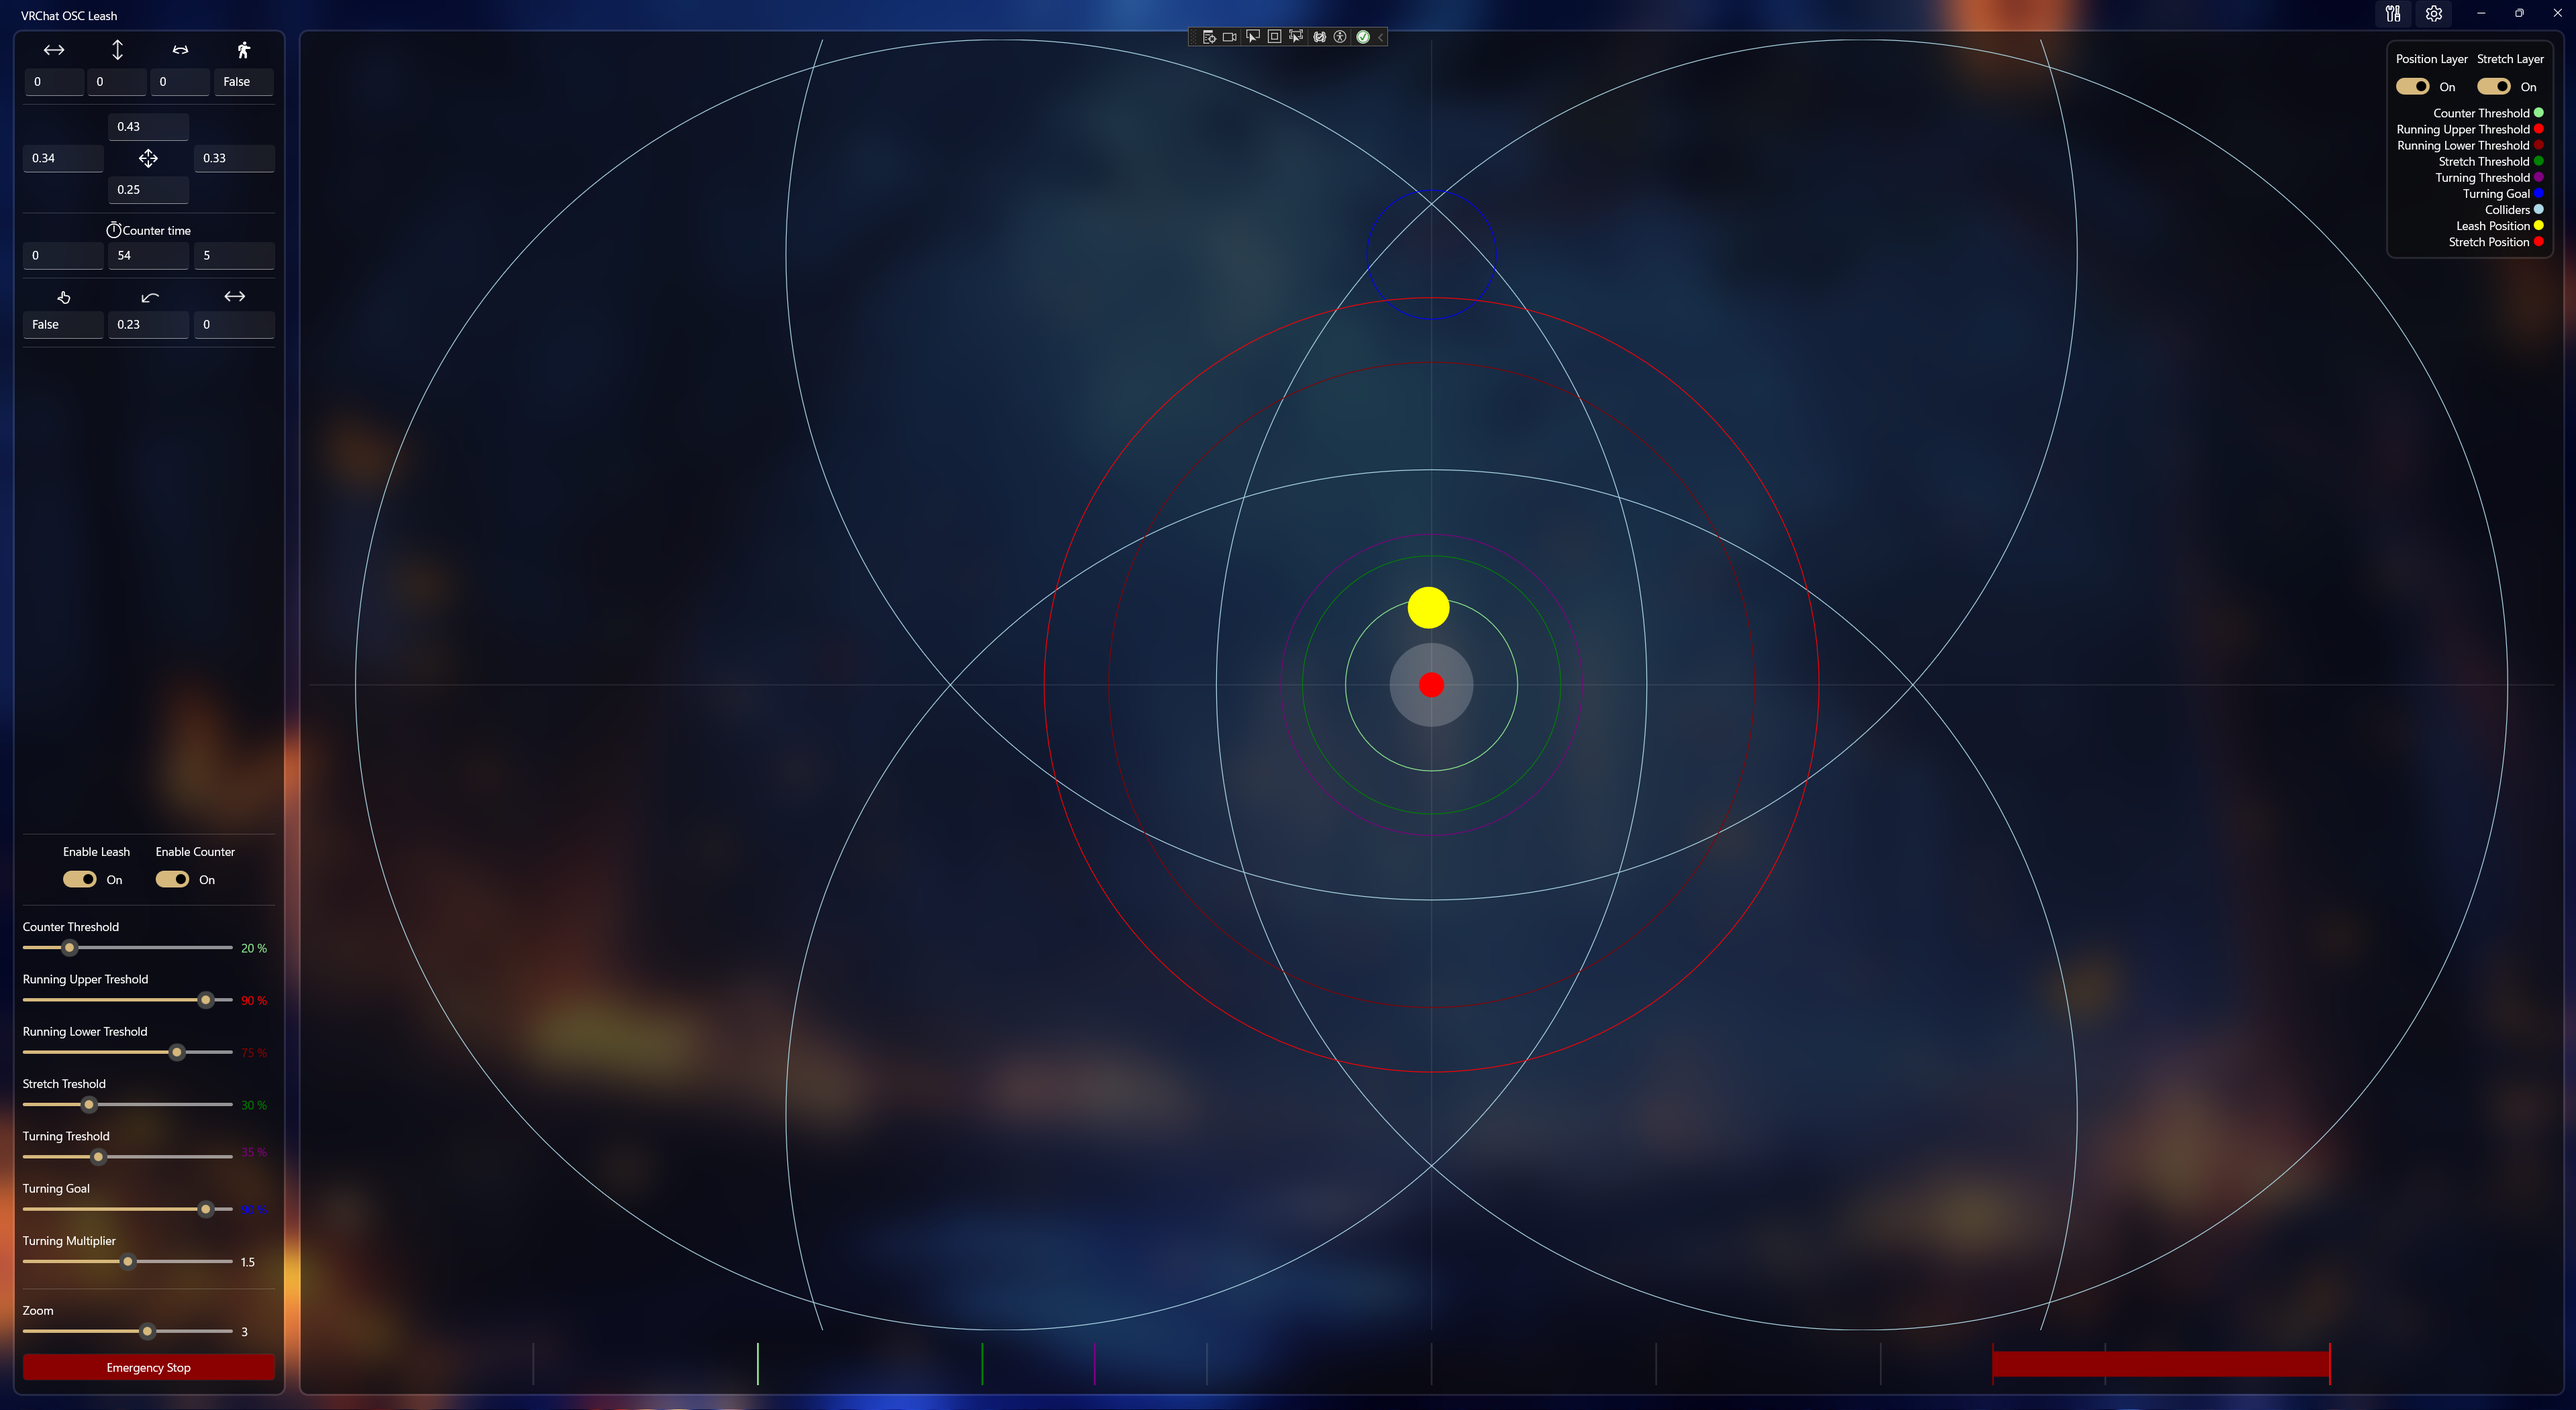
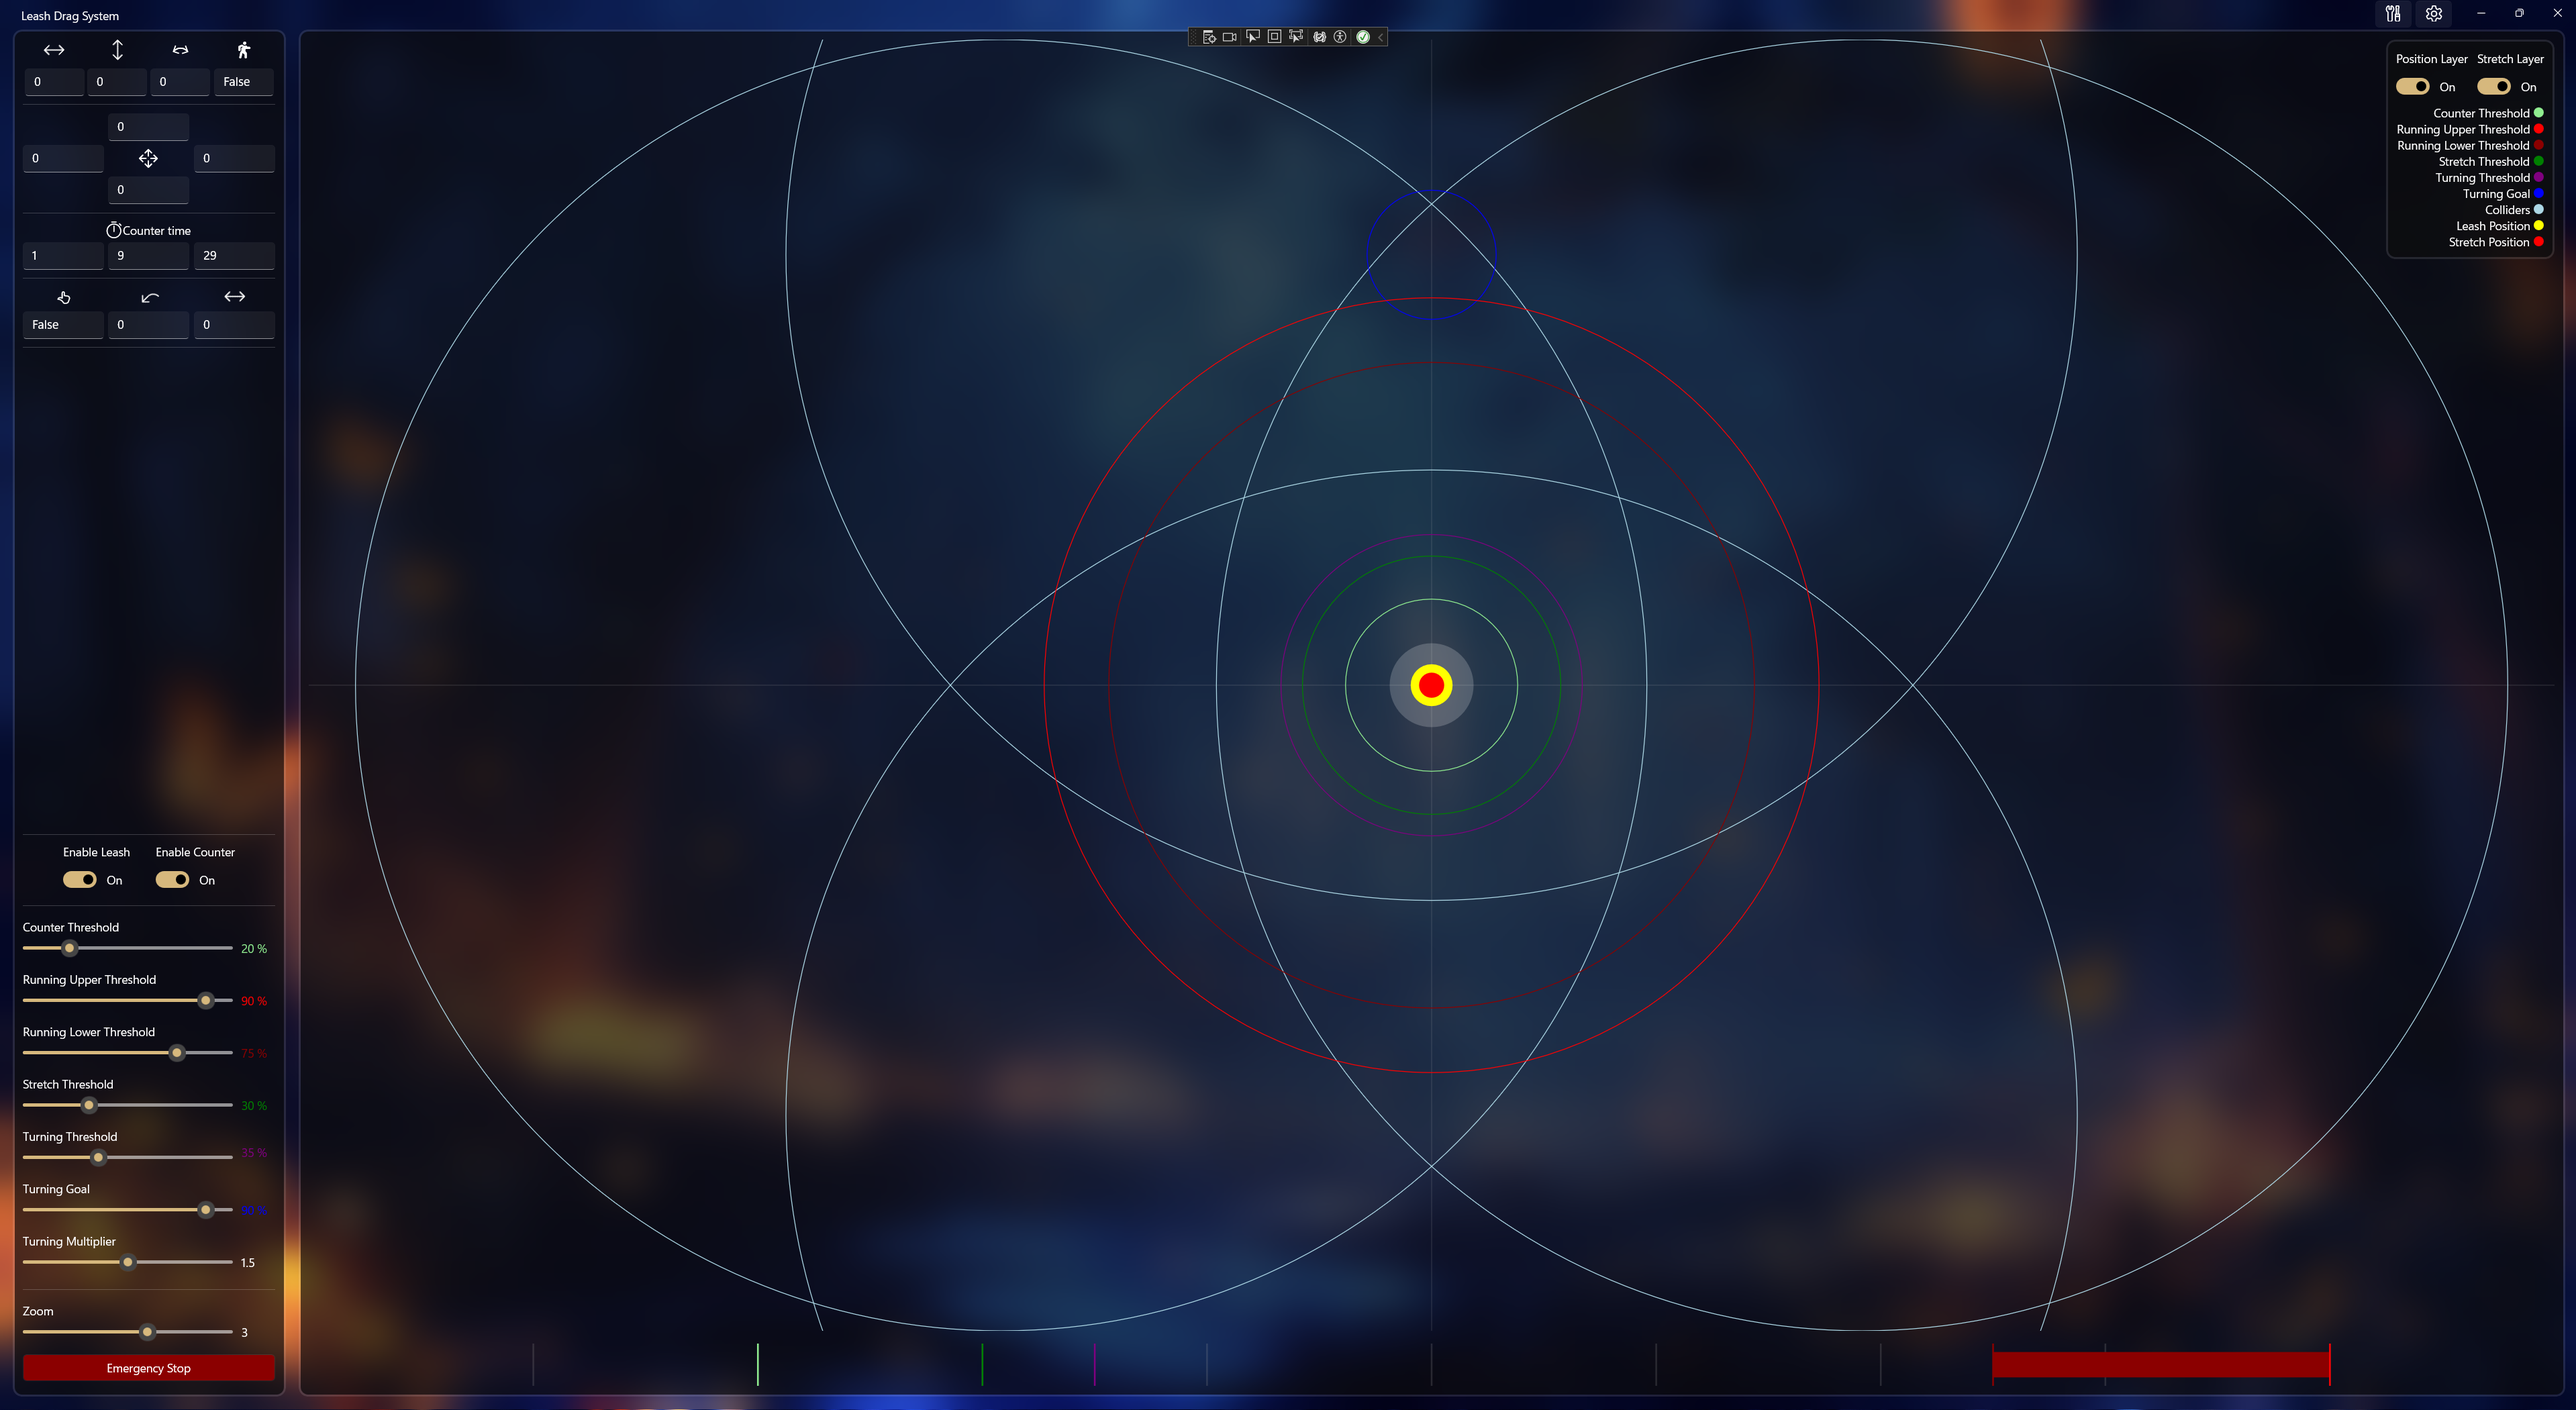
Updated the new name in a couple forgotten places

Changed region(s): [[0.5271, 0.4022, 0.5581, 0.495], [0.031, 0.6806, 0.062, 0.7116]]

diff --git a/src/LDS/Services/StorageLocation.cs b/src/LDS/Services/StorageLocation.cs
@@ -4,7 +4,7 @@ using System.IO;
 namespace LDS.Services;
 public static class StorageLocation
 {
-    const string APPNAME = "VRChat OSC Leash";
+    const string APPNAME = "Leash Drag System";
     static string f_appdataPath = Environment.GetFolderPath(Environment.SpecialFolder.ApplicationData);
     public static string GetAppdataPath() => Path.Combine(f_appdataPath, APPNAME);
 
